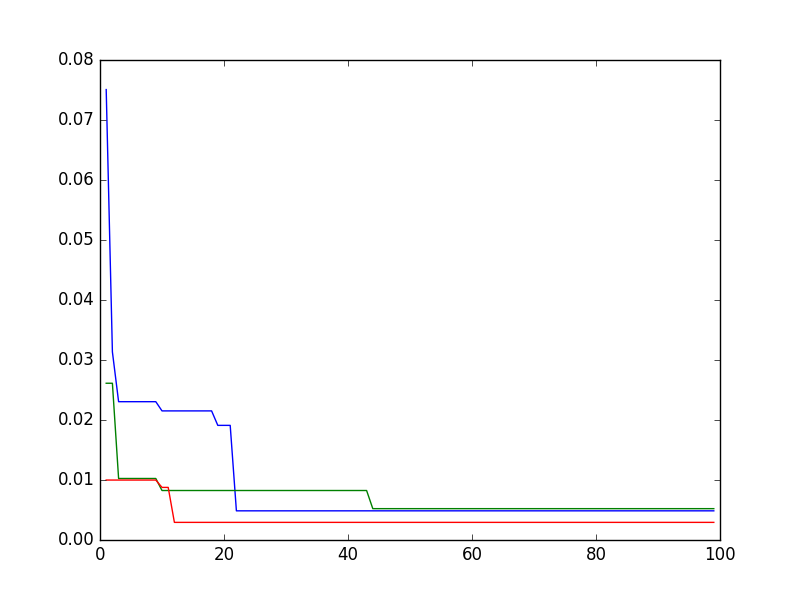
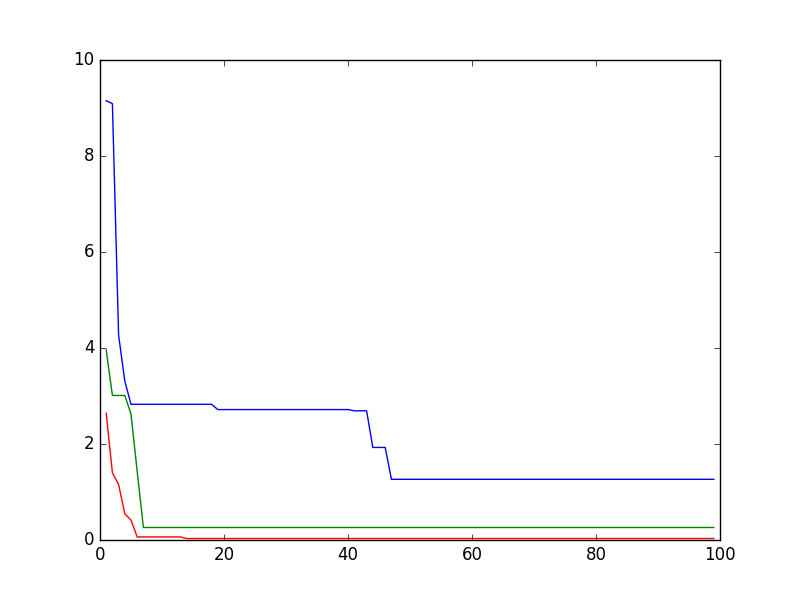
using the ackley function with pso

diff --git a/particle_swarm_optimization/oa_tests.py b/particle_swarm_optimization/oa_tests.py
@@ -3,6 +3,7 @@ import matplotlib.pyplot as plt
 from particle_swarm_optimization import PSO as OptimizationAlgorithm
 import pso_settings
 import pso_objective_function
+import ackley_function
 
 def num_parts_vs_time(o_algorithm, num_parts):
     tests = {}
@@ -10,7 +11,9 @@ def num_parts_vs_time(o_algorithm, num_parts):
     for test in num_parts:
         pso_settings.settings['population_size'] = test
 
-        algorithm = o_algorithm(ga_settings.settings, ga_objective_function.objective_function)
+###SWITCH THESE WHEN CHANGING BETWEEN OBJECTIVE FUNCTION AND ACKLEY FUNCTION###
+        # algorithm = o_algorithm(pso_settings.settings, pso_objective_function.objective_function)
+        algorithm = o_algorithm(pso_settings.settings, ackley_function.objective_function)
 
         algorithm.start_timer()
         algorithm.run()
@@ -32,7 +35,9 @@ def func_val_vs_iterations(o_algorithm, num_parts):
 
         pso_settings.settings['population_size'] = test
 
-        algorithm = o_algorithm(pso_settings.settings, pso_objective_function.objective_function)
+###SWITCH THESE WHEN CHANGING BETWEEN OBJECTIVE FUNCTION AND ACKLEY FUNCTION###
+        # algorithm = o_algorithm(pso_settings.settings, pso_objective_function.objective_function)
+        algorithm = o_algorithm(pso_settings.settings, ackley_function.objective_function)
 
         while pso_settings.settings['num_iterations'] > algorithm.num_iterations:
             f.append(algorithm.get_best_f())

diff --git a/particle_swarm_optimization/pso_settings.py b/particle_swarm_optimization/pso_settings.py
@@ -8,8 +8,8 @@ settings = {
     'num_iterations': 100,
     'time_delay': 0.0,
     ##### Leave these between 0 and 4 #####
-    'cp': 0.2,          # Weight that has the particles tend to go to local known minimum
-    'cg': 0.8,          # Weight that has the particles tend to go to global minimum
+    'cp': 0.5,          # Weight that has the particles tend to go to local known minimum
+    'cg': 0.5,          # Weight that has the particles tend to go to global minimum
     'weight': 0.5,      # this is only used when velocity_type is inertia... haven't really seen much change though when altering this
     'velocity_type': 'inertia', # normal, inertia, or constriction
     'step_through': False, # whether it should pause after each iteration

diff --git a/particle_swarm_optimization/particle_swarm_optimization.py b/particle_swarm_optimization/particle_swarm_optimization.py
@@ -232,7 +232,7 @@ if __name__ == "__main__":
     if args.function:
         function_module = importlib.import_module(args.function[0])
     else:
-        function_module = importlib.import_module('pso_objective_function')
+        function_module = importlib.import_module('ackley_function')
     function = function_module.objective_function
 
     # get settings

diff --git a/particle_swarm_optimization/ackley_function.py b/particle_swarm_optimization/ackley_function.py
@@ -1,0 +1,13 @@
+from numpy import sqrt, cos, exp, pi
+
+# Ackley Function
+def objective_function(params):
+    x1 = params[0]
+    x2 = params[1]
+
+    a = 20
+    b = 0.2
+    c = 2*pi
+    d = len(params) # number of dimensions
+
+    return ( -1.0*a*exp(-1.0*b*sqrt((1.0/d)*(x1**2 + x2**2))) - exp((1.0/d)*(cos(c*x1) + cos(c*x2))) + a + exp(1) )

diff --git a/particle_swarm_optimization/pso_objective_function.py b/particle_swarm_optimization/pso_objective_function.py
@@ -1,4 +1,3 @@
-#from math import sqrt, cos
 from numpy import sqrt, cos
 
 def objective_function(params):
